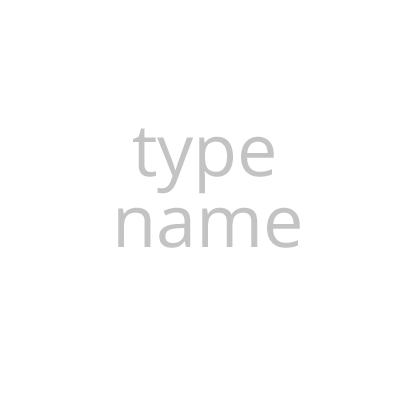
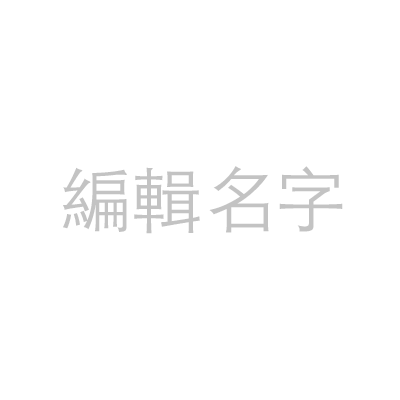
Translate every page

Changed region(s): [[0.15, 0.33, 0.87, 0.63]]

diff --git a/TableViewCells/NotificationTableViewCell.m b/TableViewCells/NotificationTableViewCell.m
@@ -110,9 +110,10 @@
     NSAttributedString *nameString = [[NSMutableAttributedString alloc] initWithString:[Utility getNameToDisplay:name] attributes:[Utility getNotifBlackBoldFontDictionary]];
     NSAttributedString *descString;
     if([type isEqualToString:@"quiz"]){
-        descString = [[NSAttributedString alloc] initWithString:@" commented on your Marble: " attributes:[Utility getNotifBlackNormalFontDictionary]];
+//        descString = [[NSAttributedString alloc] initWithString:@" commented on your Marble: " attributes:[Utility getNotifBlackNormalFontDictionary]];
+        descString = [[NSAttributedString alloc] initWithString:@" 在你的珠留言: " attributes:[Utility getNotifBlackNormalFontDictionary]];
     } else{
-        descString = [[NSAttributedString alloc] initWithString:@" commented on your profile quote: " attributes:[Utility getNotifBlackNormalFontDictionary]];
+        descString = [[NSAttributedString alloc] initWithString:@" 在你的: " attributes:[Utility getNotifBlackNormalFontDictionary]];
     }
     NSAttributedString *commentString = [[NSAttributedString alloc] initWithString:[NSString stringWithFormat:@"\"%@\"", comment] attributes:[Utility getNotifOrangeNormalFontDictionary]];
     [finalString appendAttributedString:nameString];
@@ -132,17 +133,17 @@
         i++;
     }
     if(_keywordUpdate.keyword2){
-        NSAttributedString *keywordstring = [[NSAttributedString alloc] initWithString:[NSString stringWithFormat:@"\"%@\"", _keywordUpdate.keyword2] attributes:[Utility getNotifOrangeNormalFontDictionary]];
+        NSAttributedString *keywordstring = [[NSAttributedString alloc] initWithString:[NSString stringWithFormat:@" \"%@\"", _keywordUpdate.keyword2] attributes:[Utility getNotifOrangeNormalFontDictionary]];
         [finalString appendAttributedString:keywordstring];
         i++;
     }
     if(_keywordUpdate.keyword3){
-        NSAttributedString *keywordstring = [[NSAttributedString alloc] initWithString:[NSString stringWithFormat:@"\"%@\"", _keywordUpdate.keyword3] attributes:[Utility getNotifOrangeNormalFontDictionary]];
+        NSAttributedString *keywordstring = [[NSAttributedString alloc] initWithString:[NSString stringWithFormat:@" \"%@\"", _keywordUpdate.keyword3] attributes:[Utility getNotifOrangeNormalFontDictionary]];
         [finalString appendAttributedString:keywordstring];
         i++;
     }
 
-    NSAttributedString *descString = [[NSAttributedString alloc] initWithString:@" was added to your profile" attributes:[Utility getNotifBlackNormalFontDictionary]];
+    NSAttributedString *descString = [[NSAttributedString alloc] initWithString:@" 成為你的新珠" attributes:[Utility getNotifBlackNormalFontDictionary]];
     [finalString appendAttributedString:descString];
     return finalString;
 }
@@ -155,11 +156,11 @@
 
 -(NSAttributedString *)generateAttributedStringForQuizWithAuthor:(NSString *)authorName andOption0:(NSString *)option0Name andOption1:(NSString *)option1Name andKeyword:(NSString *)keyword{
     NSMutableAttributedString *authorString = [[NSMutableAttributedString alloc] initWithString:[Utility getNameToDisplay:authorName] attributes:[Utility getNotifBlackBoldFontDictionary]];
-    NSAttributedString *desc1String = [[NSAttributedString alloc] initWithString:@" compared " attributes:[Utility getNotifBlackNormalFontDictionary]];
+    NSAttributedString *desc1String = [[NSAttributedString alloc] initWithString:@" 比了 " attributes:[Utility getNotifBlackNormalFontDictionary]];
     NSAttributedString *option0String = [[NSAttributedString alloc] initWithString:[Utility getNameToDisplay:option0Name] attributes:[Utility getNotifOrangeBoldFontDictionary]];
-    NSAttributedString *andString = [[NSAttributedString alloc] initWithString:@" and " attributes:[Utility getNotifBlackNormalFontDictionary]];
+    NSAttributedString *andString = [[NSAttributedString alloc] initWithString:@" 和 " attributes:[Utility getNotifBlackNormalFontDictionary]];
     NSAttributedString *option1String = [[NSAttributedString alloc] initWithString:[Utility getNameToDisplay:option1Name] attributes:[Utility getNotifOrangeBoldFontDictionary]];
-    NSAttributedString *desc2String = [[NSAttributedString alloc] initWithString:@" with " attributes:[Utility getNotifBlackNormalFontDictionary]];
+    NSAttributedString *desc2String = [[NSAttributedString alloc] initWithString:@" 在 " attributes:[Utility getNotifBlackNormalFontDictionary]];
     NSAttributedString *keywordString = [[NSAttributedString alloc] initWithString:[NSString stringWithFormat:@"\"%@\"", keyword] attributes:[Utility getNotifOrangeNormalFontDictionary]];
 
     [authorString appendAttributedString:desc1String];

diff --git a/ViewControllers/MarbleTabBarController.m b/ViewControllers/MarbleTabBarController.m
@@ -16,7 +16,7 @@
 #import "DAKeyboardControl.h"
 #import "UserVoice.h"
 
-#define COMMENT_TEXT @"write a comment..."
+#define COMMENT_TEXT @"留言⋯"
 
 #define FIRST_LAUNCH_TAG 887
 
@@ -470,10 +470,10 @@
 
 -(void)setCommentsNumWithNum:(NSUInteger)num{
     if(num < 2){
-        NSAttributedString *string = [[NSAttributedString alloc] initWithString:[NSString stringWithFormat:@"%lu Comment",(unsigned long)num] attributes:[Utility getCommentsTableCommentNumFontDictionary]];
+        NSAttributedString *string = [[NSAttributedString alloc] initWithString:[NSString stringWithFormat:@"%lu 則留言",(unsigned long)num] attributes:[Utility getCommentsTableCommentNumFontDictionary]];
         [_commentNumLabel setAttributedText:string];
     }else{
-        NSAttributedString *string = [[NSAttributedString alloc] initWithString:[NSString stringWithFormat:@"%lu Comments",(unsigned long)num] attributes:[Utility getCommentsTableCommentNumFontDictionary]];
+        NSAttributedString *string = [[NSAttributedString alloc] initWithString:[NSString stringWithFormat:@"%lu 則留言",(unsigned long)num] attributes:[Utility getCommentsTableCommentNumFontDictionary]];
         [_commentNumLabel setAttributedText:string];
     }
     [_commentNumLabel setTextAlignment:NSTextAlignmentCenter];
@@ -623,12 +623,12 @@
     UIView *sideMenu = [[UIView alloc] initWithFrame:CGRectMake(self.view.frame.size.width, 0, self.view.frame.size.width, self.view.frame.size.height)];
     [sideMenu setBackgroundColor:[UIColor colorWithWhite:0.2 alpha:1]];
     UIButton *signOutButton = [[UIButton alloc] initWithFrame:CGRectMake(10, 50, 200, 30)];
-    [signOutButton setTitle:@"Sign Out" forState:UIControlStateNormal];
+    [signOutButton setTitle:@"登出" forState:UIControlStateNormal];
     [signOutButton addTarget:self action:@selector(signOutButtonPressed:) forControlEvents:UIControlEventTouchUpInside];
     [sideMenu addSubview:signOutButton];
     
     UIButton *feedbackButton = [[UIButton alloc] initWithFrame:CGRectMake(10, 100, 200, 30)];
-    [feedbackButton setTitle:@"Feedback & Support" forState:UIControlStateNormal];
+    [feedbackButton setTitle:@"意見回饋" forState:UIControlStateNormal];
     [feedbackButton addTarget:self action:@selector(feedbackButtonPressed:) forControlEvents:UIControlEventTouchUpInside];
     [sideMenu addSubview:feedbackButton];
 

diff --git a/ViewControllers/CreateQuizViewController.m b/ViewControllers/CreateQuizViewController.m
@@ -127,7 +127,7 @@ static const CGFloat horizontalPadding = 35.f;
 
     _guideTextLabel = [[UILabel alloc] initWithFrame:CGRectMake(_guideImageView.frame.origin.x +67, _guideImageView.frame.origin.y+6, 200, 30)];
     [_guideTextLabel setAlpha:0];
-    NSAttributedString *textString = [[NSAttributedString alloc] initWithString:@"swipe to choose" attributes:[Utility getCreateQuizDescFontDictionary]];
+    NSAttributedString *textString = [[NSAttributedString alloc] initWithString:@"向左右滑動來選擇" attributes:[Utility getCreateQuizDescFontDictionary]];
     [_guideTextLabel setAttributedText:textString];
     [_mainView addSubview:_guideTextLabel];
     
@@ -176,7 +176,7 @@ static const CGFloat horizontalPadding = 35.f;
     UILabel *titleLabel = [[UILabel alloc] initWithFrame:CGRectMake(0, 20, [KeyChainWrapper getScreenWidth], 30)];
     titleLabel.lineBreakMode = NSLineBreakByWordWrapping;
     titleLabel.numberOfLines = 0;
-    NSAttributedString *titleString = [[NSAttributedString alloc] initWithString:@"Tap on any item to edit" attributes:[Utility getCreateQuizDescFontDictionary]];
+    NSAttributedString *titleString = [[NSAttributedString alloc] initWithString:@"點擊任一區塊編輯" attributes:[Utility getCreateQuizDescFontDictionary]];
     [titleLabel setAttributedText:titleString];
     [titleLabel setTextAlignment:NSTextAlignmentCenter];
     [_mainView addSubview:titleLabel];
@@ -937,7 +937,7 @@ static const CGFloat horizontalPadding = 35.f;
     }
     
     _shufflePeopleBtn = [[UIButton alloc] initWithFrame:CGRectMake([KeyChainWrapper getScreenWidth]/2.f - 80, y, 170, 50)];
-    NSAttributedString *shuffleString = [[NSAttributedString alloc] initWithString:@"shuffle friends" attributes:[Utility getCreateQuizShuffleButtonFontDictionary]];
+    NSAttributedString *shuffleString = [[NSAttributedString alloc] initWithString:@"換朋友" attributes:[Utility getCreateQuizShuffleButtonFontDictionary]];
     [_shufflePeopleBtn setAttributedTitle:shuffleString forState:UIControlStateNormal];
     [_shufflePeopleBtn setTitleColor:[UIColor blackColor] forState:UIControlStateNormal];
     [_mainView addSubview:_shufflePeopleBtn];

diff --git a/ViewControllers/ProfileViewController.m b/ViewControllers/ProfileViewController.m
@@ -207,12 +207,13 @@
 }
 
 -(void)addGrayStaticLabels{
-    NSAttributedString *createdString = [[NSAttributedString alloc] initWithString:@"compared" attributes:[Utility getProfileGrayStaticFontDictionary]];
-    NSAttributedString *receivedString = [[NSAttributedString alloc] initWithString:@"received" attributes:[Utility getProfileGrayStaticFontDictionary]];
-    NSAttributedString *solvedString = [[NSAttributedString alloc] initWithString:@"correct" attributes:[Utility getProfileGrayStaticFontDictionary]];
+    NSAttributedString *createdString = [[NSAttributedString alloc] initWithString:@"比了" attributes:[Utility getProfileGrayStaticFontDictionary]];
+    NSAttributedString *receivedString = [[NSAttributedString alloc] initWithString:@"被比" attributes:[Utility getProfileGrayStaticFontDictionary]];
+    NSAttributedString *solvedString = [[NSAttributedString alloc] initWithString:@"猜對" attributes:[Utility getProfileGrayStaticFontDictionary]];
     UILabel *createdLabel = [[UILabel alloc] initWithFrame:CGRectMake(GOLDEN_LEFT_ALIGNMENT, GRAY_Y, createdString.size.width, createdString.size.height)];
-    UILabel *receivedLabel = [[UILabel alloc] initWithFrame:CGRectMake(GOLDEN_LEFT_ALIGNMENT + createdString.size.width + 12, GRAY_Y, receivedString.size.width, receivedString.size.height)];
-    UILabel *solvedLabel = [[UILabel alloc] initWithFrame:CGRectMake(GOLDEN_LEFT_ALIGNMENT + createdString.size.width + receivedString.size.width + 24, GRAY_Y, solvedString.size.width, solvedString.size.height)];
+    //chinese version more right
+    UILabel *receivedLabel = [[UILabel alloc] initWithFrame:CGRectMake(GOLDEN_LEFT_ALIGNMENT + createdString.size.width + 30, GRAY_Y, receivedString.size.width, receivedString.size.height)];
+    UILabel *solvedLabel = [[UILabel alloc] initWithFrame:CGRectMake(GOLDEN_LEFT_ALIGNMENT + createdString.size.width + receivedString.size.width + 60, GRAY_Y, solvedString.size.width, solvedString.size.height)];
     [createdLabel setAttributedText:createdString];
     [receivedLabel setAttributedText:receivedString];
     [solvedLabel setAttributedText:solvedString];

diff --git a/ViewControllers/KeywordProfileViewController.m b/ViewControllers/KeywordProfileViewController.m
@@ -134,14 +134,14 @@
     [horizLine setBackgroundColor:[UIColor marbleBackGroundColor]];
     [_headerView addSubview:horizLine];
     
-    NSAttributedString *overallString = [[NSAttributedString alloc] initWithString:@"overall friend ranking" attributes:[Utility getNotifBlackNormalFontDictionary]];
-    UILabel *overallLabel = [[UILabel alloc] initWithFrame:CGRectMake(35, 15, 150, 20)];
+    NSAttributedString *overallString = [[NSAttributedString alloc] initWithString:@"朋友總排名" attributes:[Utility getNotifBlackNormalFontDictionary]];
+    UILabel *overallLabel = [[UILabel alloc] initWithFrame:CGRectMake(80, 15, 150, 20)];
     [overallLabel setAttributedText:overallString];
     [_headerView addSubview:overallLabel];
     
     CGFloat creatorX = [KeyChainWrapper getScreenWidth]*0.78 - 30;
-    NSAttributedString *createdByString = [[NSAttributedString alloc] initWithString:@"created by" attributes:[Utility getNotifBlackNormalFontDictionary]];
-    UILabel *createdByLabel = [[UILabel alloc] initWithFrame:CGRectMake(creatorX, 12, 100, 20)];
+    NSAttributedString *createdByString = [[NSAttributedString alloc] initWithString:@"創造人" attributes:[Utility getNotifBlackNormalFontDictionary]];
+    UILabel *createdByLabel = [[UILabel alloc] initWithFrame:CGRectMake(creatorX+8, 10, 100, 20)];
     [createdByLabel setAttributedText:createdByString];
     [_headerView addSubview:createdByLabel];
     
@@ -155,7 +155,7 @@
     [_headerView addSubview:_creatorNameButton];
     [_headerView addSubview:_creatorImageView];
     
-    NSAttributedString *timesPlayedString = [[NSAttributedString alloc] initWithString:@"times played" attributes:[Utility getProfileGrayStaticFontDictionary]];
+    NSAttributedString *timesPlayedString = [[NSAttributedString alloc] initWithString:@"玩的次數" attributes:[Utility getProfileGrayStaticFontDictionary]];
     UILabel *timesPlayedStringLabel = [[UILabel alloc] initWithFrame:CGRectMake(creatorX - 20, 150, 100, 20)];
     [timesPlayedStringLabel setAttributedText:timesPlayedString];
     [timesPlayedStringLabel setTextAlignment:NSTextAlignmentCenter];

diff --git a/ViewControllers/KeywordListViewController.m b/ViewControllers/KeywordListViewController.m
@@ -73,7 +73,7 @@
 -(void) setNavbarTitle{
     UINavigationBar *myNavBar =[self.navigationController navigationBar];
     [myNavBar setTitleTextAttributes:[Utility getNavigationBarTitleFontDictionary]];
-    [[myNavBar topItem] setTitle:[NSString stringWithFormat:@"%@'s Marbles", [Utility getNameToDisplay:_subject.name]]];
+    [[myNavBar topItem] setTitle:[NSString stringWithFormat:@"%@的珠們", [Utility getNameToDisplay:_subject.name]]];
     [myNavBar setTranslucent:NO];
     [myNavBar setBarTintColor:[UIColor marbleOrange]];
     self.navigationController.navigationBar.tintColor = [UIColor whiteColor];
